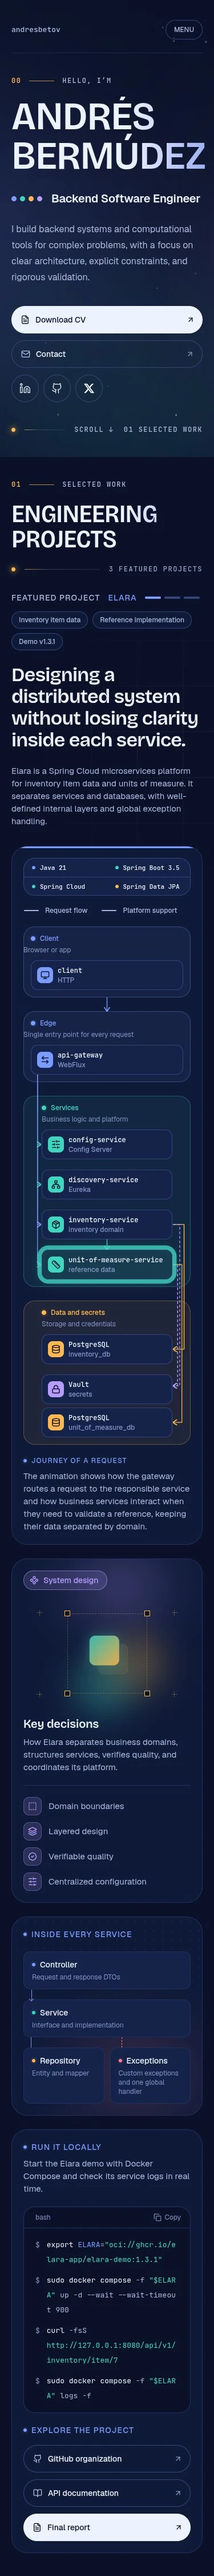
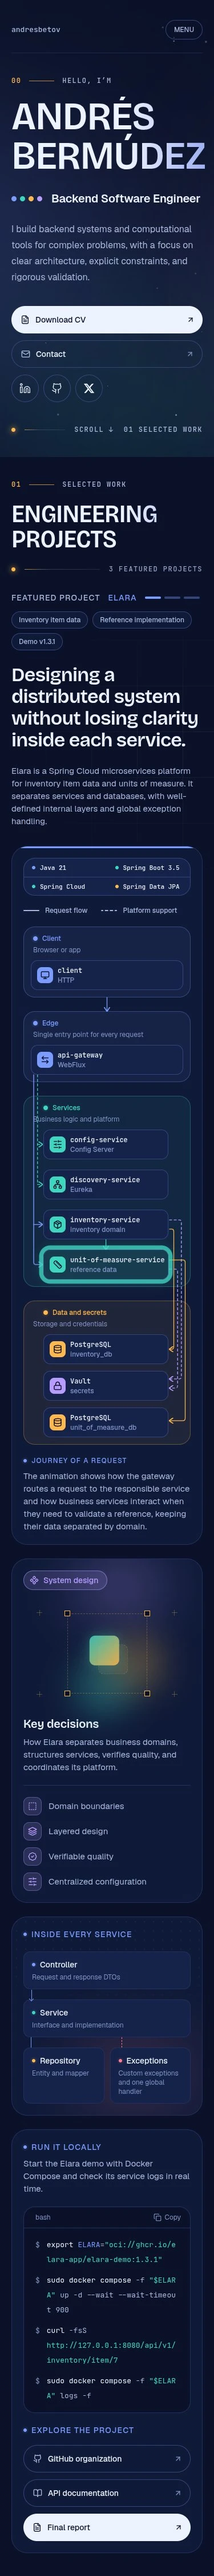
fix(portfolio): align Elara request diagram with Figma

Changed region(s): [[0.1467, 0.4041, 0.5867, 0.5595], [0.7627, 0.4663, 0.88, 0.5595]]

diff --git a/docs/evidence/projects-elara/README.md b/docs/evidence/projects-elara/README.md
@@ -3,27 +3,34 @@
 Screenshots captured from `npm run dev` during the Elara Featured project slice. The Astro
 development toolbar is hidden in the final captures.
 
-| File                          | Viewport | State                                     |
-| ----------------------------- | -------- | ----------------------------------------- |
-| `before-1440.webp`            | 1440×900 | Hero-only baseline                        |
-| `before-768.webp`             | 768×900  | Hero-only baseline                        |
-| `before-390.webp`             | 390×844  | Hero-only baseline                        |
-| `before-375.webp`             | 375×844  | Hero-only baseline                        |
-| `after-1440.webp`             | 1440×900 | Hero + Featured projects, full page       |
-| `after-768.webp`              | 768×900  | Hero + Featured projects, full page       |
-| `after-390.webp`              | 390×844  | Hero + Featured projects, full page       |
-| `after-375.webp`              | 375×844  | Hero + Featured projects, full page       |
-| `hero-after-1440.webp`        | 1440×900 | Hero crop for the before/after comparison |
-| `nav-projects-390.webp`       | 390×844  | After the mobile menu Projects click      |
-| `focus-project-link-390.webp` | 390×844  | Keyboard focus on GitHub organization     |
-| `request-journey-1440.webp`   | 856×610  | Request journey diagram close-up          |
-| `request-journey-390.webp`    | 350×1222 | Request journey diagram close-up          |
+| File                                  | Viewport | State                                     |
+| ------------------------------------- | -------- | ----------------------------------------- |
+| `before-1440.webp`                    | 1440×900 | Hero-only baseline                        |
+| `before-768.webp`                     | 768×900  | Hero-only baseline                        |
+| `before-390.webp`                     | 390×844  | Hero-only baseline                        |
+| `before-375.webp`                     | 375×844  | Hero-only baseline                        |
+| `after-1440.webp`                     | 1440×900 | Hero + Featured projects, full page       |
+| `after-768.webp`                      | 768×900  | Hero + Featured projects, full page       |
+| `after-390.webp`                      | 390×844  | Hero + Featured projects, full page       |
+| `after-375.webp`                      | 375×844  | Hero + Featured projects, full page       |
+| `hero-after-1440.webp`                | 1440×900 | Hero crop for the before/after comparison |
+| `nav-projects-390.webp`               | 390×844  | After the mobile menu Projects click      |
+| `focus-project-link-390.webp`         | 390×844  | Keyboard focus on GitHub organization     |
+| `request-journey-1440.webp`           | 856×610  | Request journey diagram close-up          |
+| `request-journey-390.webp`            | 350×1222 | Request journey diagram close-up          |
+| `tablet-request-journey-compare.webp` | 1408×824 | Figma (left) vs implementation (right)    |
+| `mobile-request-journey-compare.webp` | 732×1222 | Figma (left) vs implementation (right)    |
 
 ## Checks
 
 - `npm run verify` passes: Prettier, ESLint, Stylelint, Astro Check, and the static build.
 - Section height is 1742px at 1440 (Figma frame 1742), 2618px at 768 (Figma 2616), and
   3657px at 390 (Figma 3656). The 1–2px differences are card border rounding.
+- The tablet/mobile request journey follows the Figma frame geometry: node and label insets
+  are 17/39px at tablet and 17/35px at mobile, the solid request rail and dashed platform rail
+  are separate, both the direct gateway→unit-of-measure path and the inventory→unit-of-measure
+  validation path are present, and the data/secrets connectors use the Figma arrow offsets.
+  The legend line samples use the Figma SVG paths. See the two side-by-side comparison images.
 - `body.scrollWidth` and `documentElement.scrollWidth` equal the viewport at 1440, 768, 390,
   and 375. The visible diagram wrapper is 808×420 at 1440, 630×568 at 768, and 308×906 at 390
   (293×906 at 375), with `scrollWidth === clientWidth`; no diagram is horizontally clipped.
